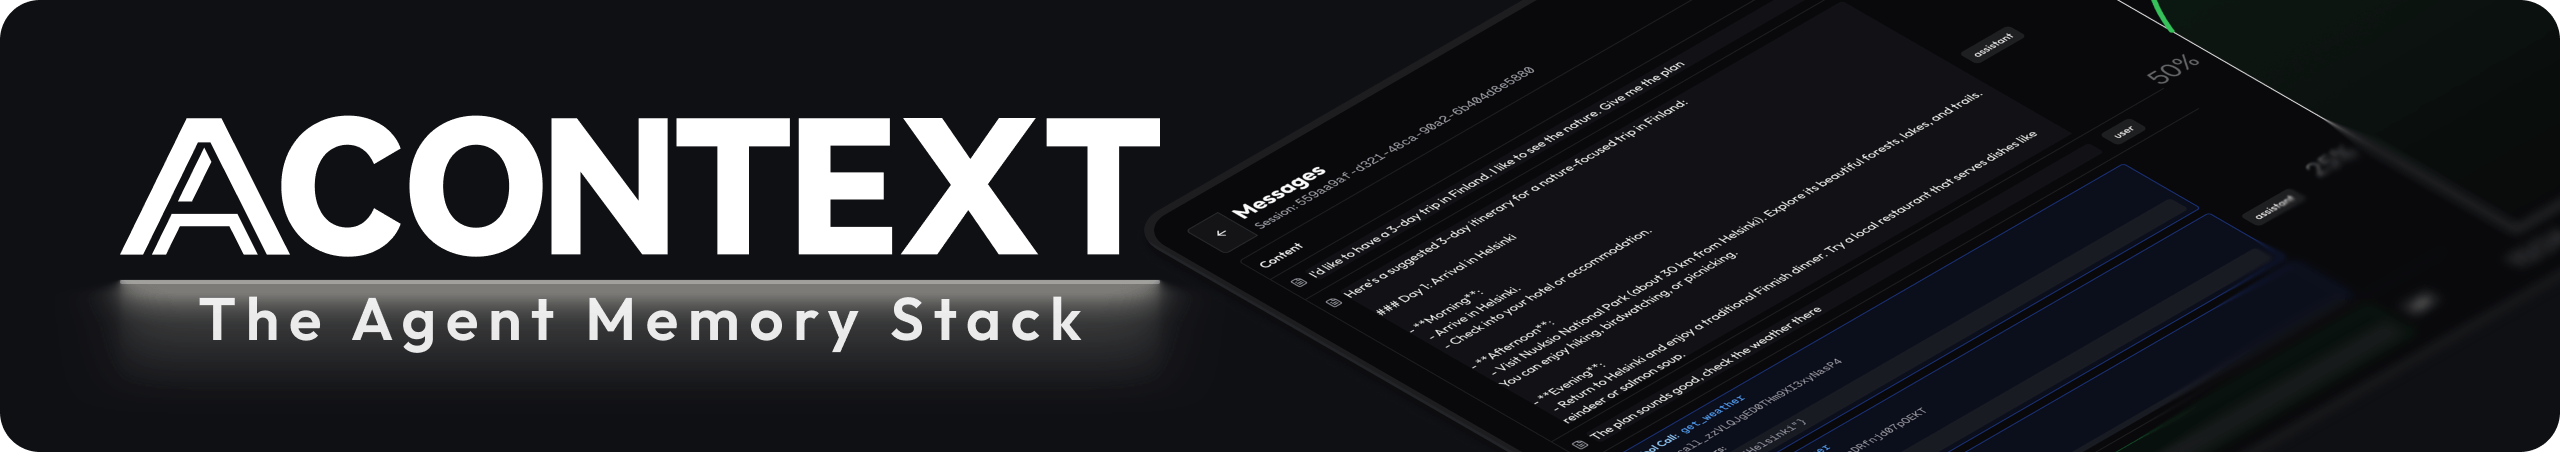
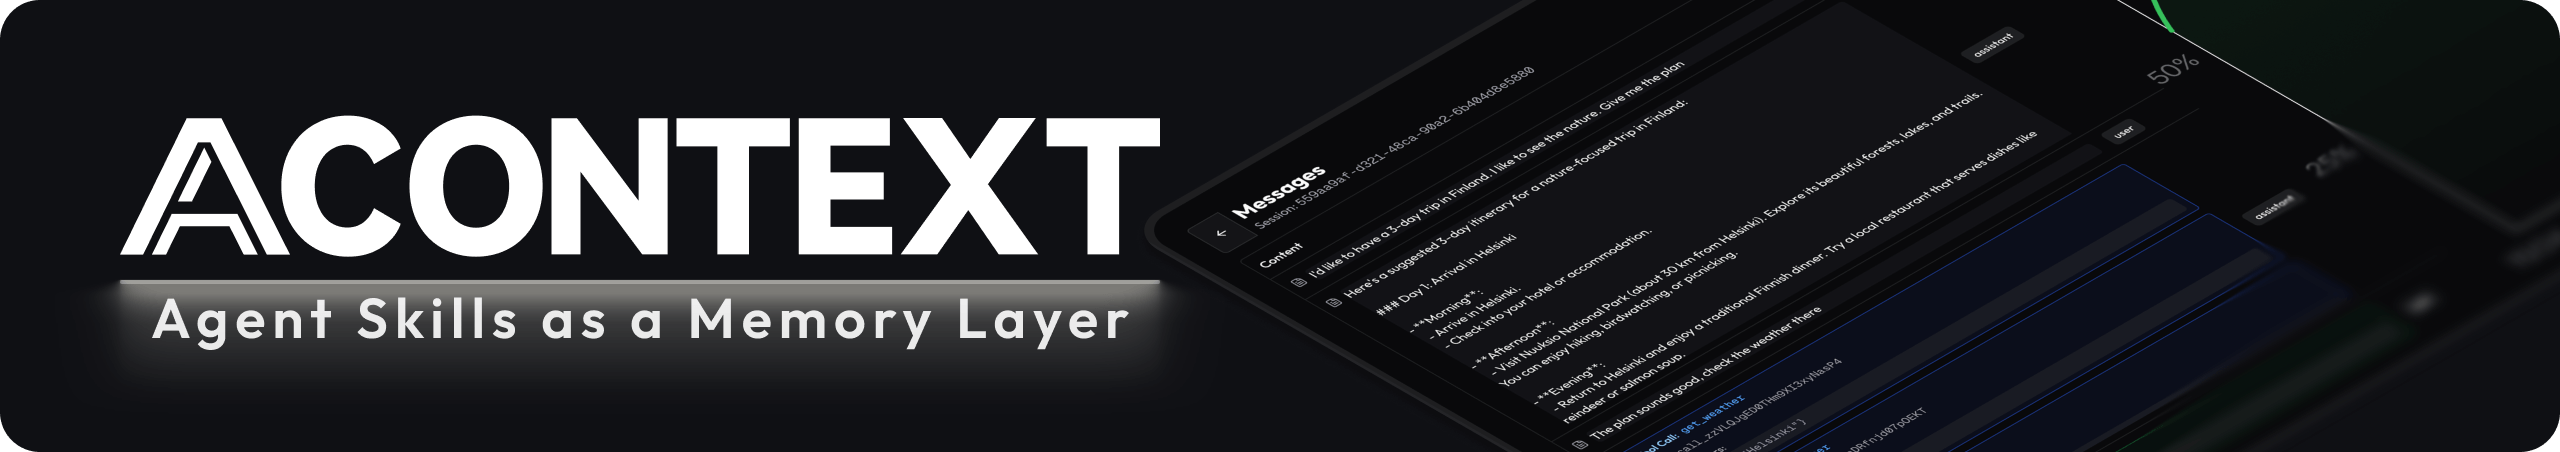
rebrand(readme): rewrite README to focus on skill memory positioning
Replace top sections of README with new skill memory narrative:

- What Is Acontext: open-source agent skills as a memory layer
- Who Is It For: developers with agents that repeat mistakes
- Why Not Other Memory: comparison table vs Mem0/Zep/RAG
- What Acontext Does: Markdown-native, schema design, tool-based recall, ZIP export
- How It Works: Store and Recall mermaid flow diagrams
- Quickstart: rename to "Skill Memory in Action" with learn→reuse example
- Document section: update copy to reference skill memory

Made-with: Cursor

Changed region(s): [[0.0625, 0.6504, 0.4375, 0.7743]]

diff --git a/README.md b/README.md
@@ -25,45 +25,79 @@
 
 
 
-Acontext is the **memory stack** for production AI agents. Think of it as Supabase for agent memory.
+## What Is Acontext?
 
-Unifies **short-term memory, mid-term state, and long-term skill** for production AI agents.
+Acontext is an open-source Agent Skills as a Memory Layer: skill memory that **automatically** captures learnings from agent runs and stores knowledge as **Markdown files**. You can read, edit, and share those files across agents, LLMs and frameworks.
 
+---
 
+## Who Is It For?
 
-# ❓ Why use Acontext
+For developers whose agents **repeat the same mistakes** or **fail to reuse what worked** — and who want that learning to come from runs and live in **files you can read and move**, not in embeddings or an opaque API. 
 
-#### The Problem
+Also for those **manually turning successful runs into runbooks** and wanting that **automated**.
 
-- **Context data is scattered** — messages, files, and skills live in different storages with no unified interface
-- **No observability on agent state** — you can't track success rates, replay trajectories, or know if your agent is actually working
-- **Your agent's memory is a black box** — vector stores and key-value memory are opaque, not inspectable, and not version controllable
+You may not need it if you only need in-session chat memory or chat-based retrieval.
 
-#### Acontext's Approach
+---
 
-- **Short-term Memory** — unified storage for messages, files, and artifacts — integrated with Claude Agent SDK, AI-SDK, OpenAI SDK...
-- **Mid-term State** — replay trajectories, track success rates, and monitor agents in real-time
-- **Long-term Skill** — agents distill successful/failed task outcomes into reusable, human-readable skill files, improving with every run
+## Why Not Other Memory?
 
-<div align="center">
-      <img alt="Acontext Memory Stack — Short-term, Mid-term, Long-term" src="./docs/images/memory-stack.svg" width="90%">  
-</div>
+Other memory (e.g. Mem0, Zep, vector stores, RAG) stores or retrieves from **conversations** or **static docs**. If you need a layer that learns from **what the agent did** (task outcomes) and turns that into reusable SOPs and warnings, that's **Agent Skills as a memory layer**.
 
+The difference in one line: others store *what was said* or *what was ingested*; the skill layer stores *what the agent did and how it turned out*. Three dimensions that matter when choosing a layer:
 
-# 💡 Core Features
+| | Skill memory (Agent Skills layer) | Other memory (e.g. Mem0 / Zep) | Vector store / RAG |
+|--|-----------------------------------|--------------------------------|---------------------|
+| **Captures** | What the agent *did* + outcome → procedures, preferences, warnings | What was *said* → facts, preferences | What you *ingested* → chunks |
+| **Stored as** | Markdown files (human-readable, portable) | Embeddings / graph | Embeddings |
+| **Retrieval** | Agent calls tools, gets full units (e.g. whole files) | Semantic or chat recall | Similarity search over chunks |
 
-- **Short-term Memory**
-  - [Session](https://docs.acontext.app/store/messages/multi-provider): save agent history from any LLM, any modality
-- **Mid-term State**
-  - [State Tracking](https://docs.acontext.app/observe/agent_tasks): collect agent tasks and results in near real-time
-- **Long-term Skill**
-  - [Skill Memory](https://docs.acontext.app/learn/skill-memory) - agents automatically build and update skills from successful/failed sessions
+**In short:** Other memory stores and retrieves chat or ingested docs as-is. Acontext also takes session messages (and execution) as input, but distills from them *what the agent did and how it turned out* — then writes that as structured skill files that grow with every run.
 
-<div align="center">
-    <picture>
-      <img alt="Dashboard" src="./docs/images/dashboard/BI.png" width="80%">
-    </picture>
-</div>
+**Why it matters:** When you need "learn from what the agent did, not just recall what was said," a dedicated skill layer keeps that in one place — reusable SOPs and preferences instead of re-explaining or re-fixing the same issues.
+
+**What about Cursor Rules / Claude Skills?** They're hand-written and static; you maintain them. Acontext accumulates skills **automatically** and writes Markdown you can reuse in any IDE or model.
+
+---
+
+## What Acontext Does
+
+- **Plain Markdown, any framework** — Skill memories are Markdown files. Use them with LangGraph, Claude, AI SDK, or anything that reads files. No embeddings, no API lock-in. Git, grep, and mount to the sandbox.
+- **You design the structure** — `SKILL.md` defines schema, naming, and file layout. Examples: one file per contact, per project, per runbook.
+- **Tool-based recall, not embeddings** — The agent uses `get_skill` and `get_skill_file` to fetch what it needs. Retrieval is by tool use and reasoning, not semantic top-k. Full units (e.g. whole files), not chunked fragments.
+- **Download as ZIP, reuse anywhere** — Export skill files as ZIP. Run locally, in another agent, or with another LLM. No vendor lock-in; no re-embedding or migration step.
+
+---
+
+## How It Works
+
+### Store — How skills get written
+
+```mermaid
+flowchart LR
+  A[Session messages] --> B[Task extraction]
+  B --> C[Task complete/failed]
+  C --> D[Distillation]
+  D --> E[Skill Agent]
+  E --> F[Markdown files]
+```
+
+- **Session messages** — Conversation (and optionally tool calls, artifacts) is the raw input. Tasks are extracted from the message stream automatically (or inferred from explicit outcome reporting).
+- **Task complete or failed** — When a task is marked done or failed (e.g. by agent report or automatic detection), that outcome is the trigger for learning.
+- **Distillation** — An LLM pass infers from the conversation and execution trace what worked, what failed, and user preferences.
+- **Skill Agent** — Decides where to store (existing skill or new) and writes according to your `SKILL.md` schema.
+- **Markdown files** — Skills are updated. You define the structure in `SKILL.md`; the system does extraction, routing, and writing.
+
+### Recall — How the agent uses skills on the next run
+
+```mermaid
+flowchart LR
+  E[Agent runs] --> F[get_skill / get_skill_file]
+  F --> G[Use in context]
+```
+
+Give your agent **Skill Content Tools** (`get_skill`, `get_skill_file`). The agent decides what it needs, calls the tools, and gets the skill content. No embedding search — **tool-based retrieval**, agent in the loop.
 
 
 
@@ -148,36 +182,34 @@ client = AcontextClient(
 
 
 
-### The Memory Stack in 3 Steps
+### Skill Memory in Action
 
-Store a message, get agent state, and retrieve learned skills — one API for each layer.
+Create a learning space, attach a session, and let the agent learn — skills are written as Markdown files automatically.
 
 ```python
 session = client.sessions.create()
 space = client.learning_spaces.create()
 client.learning_spaces.learn(space.id, session_id=session.id)
 
-# 1. Short-term Memory — store messages in any LLM format
+# Store messages — your agent runs as usual
 client.sessions.store_message(
     session_id=session.id,
     blob={"role": "user", "content": "Deploy the new API to staging"},
 )
-# ... your agent runs ...
-msgs = client.sessions.get_messages(session_id=session.id)
+# ... agent completes or fails the task ...
 
-# 2. Mid-term State — flush to trigger processing, then get state
-client.sessions.flush(session.id)
-summary = client.sessions.get_session_summary(session_id=session.id)
-print(summary)
-
-# 3. Long-term Skill — wait for learning, then retrieve skills
+# Skills are distilled and written automatically
 client.learning_spaces.wait_for_learning(space.id, session_id=session.id)
 skills = client.learning_spaces.list_skills(space.id)
 for skill in skills:
     print(f"{skill.name}: {skill.description}")
+
+# On the next run, agent retrieves and reuses skills
+skill = client.skills.get(skill_id=skills[0].id)
+file_content = client.skills.get_file(skill_id=skill.id, file_path="deploy-sop.md")
 ```
 
-> `flush` and `wait_for_learning` are blocking helpers for demo purposes. In production, task extraction and learning run in the background automatically — your agent never waits.
+> `wait_for_learning` is a blocking helper for demo purposes. In production, task extraction and learning run in the background automatically — your agent never waits.
 
 ### More Features
 
@@ -234,7 +266,7 @@ More examples on Typescript:
 
 # 🔍 Document
 
-To learn more about long-term skill and what Acontext can do, visit [our docs](https://docs.acontext.app/) or start with [What is Long-term Skill?](https://docs.acontext.app/learn/skill-memory)
+To learn more about skill memory and what Acontext can do, visit [our docs](https://docs.acontext.app/) or start with [What is Skill Memory?](https://docs.acontext.app/learn/skill-memory)
 
 
 
